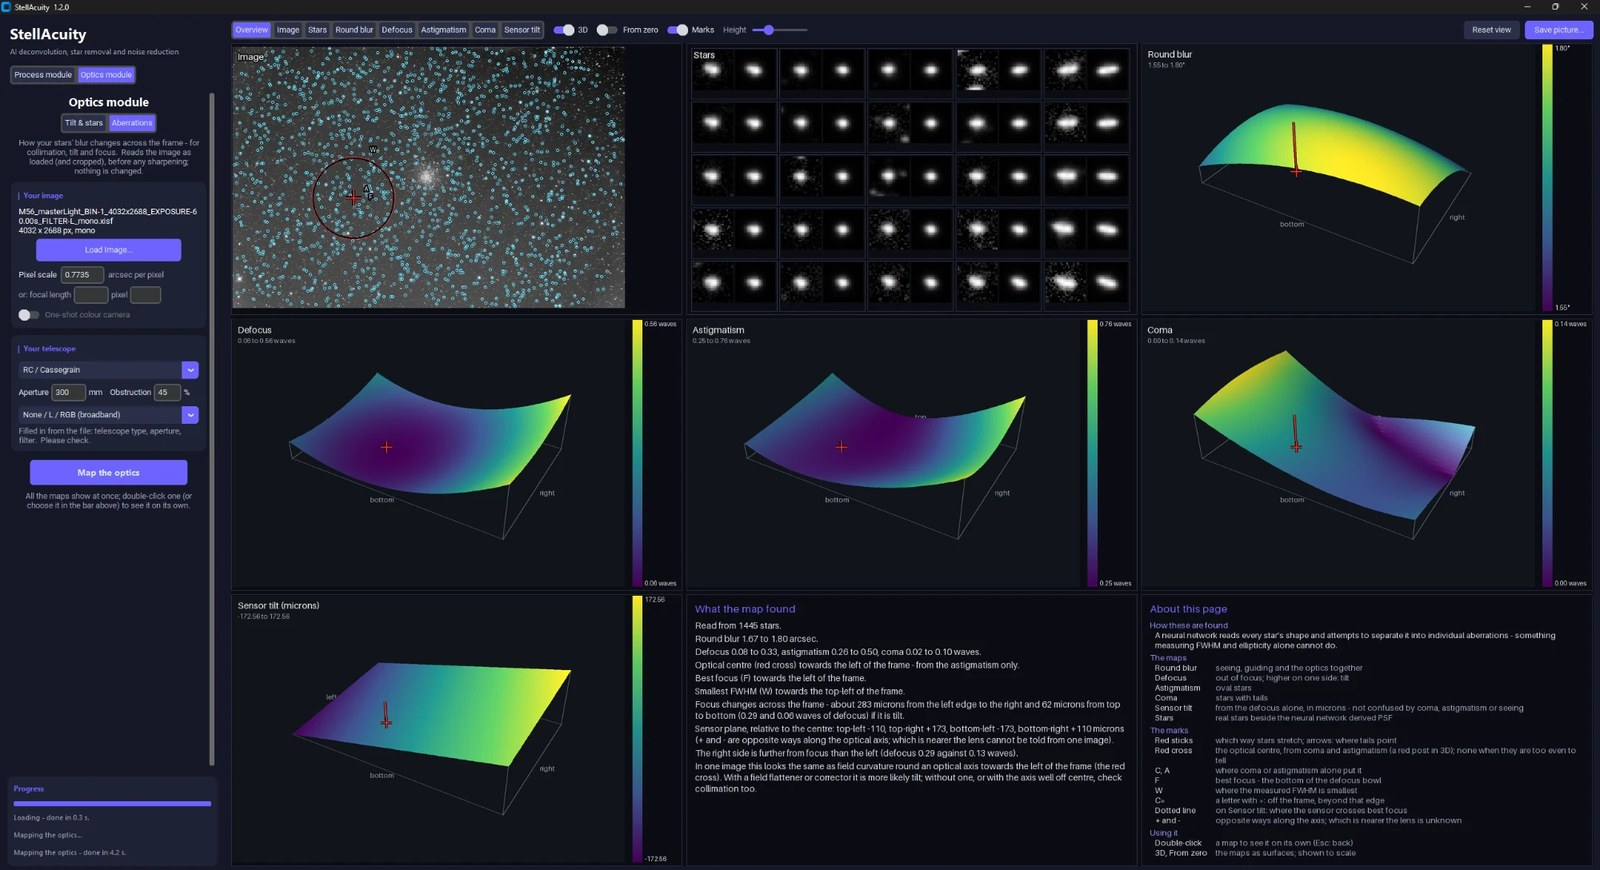
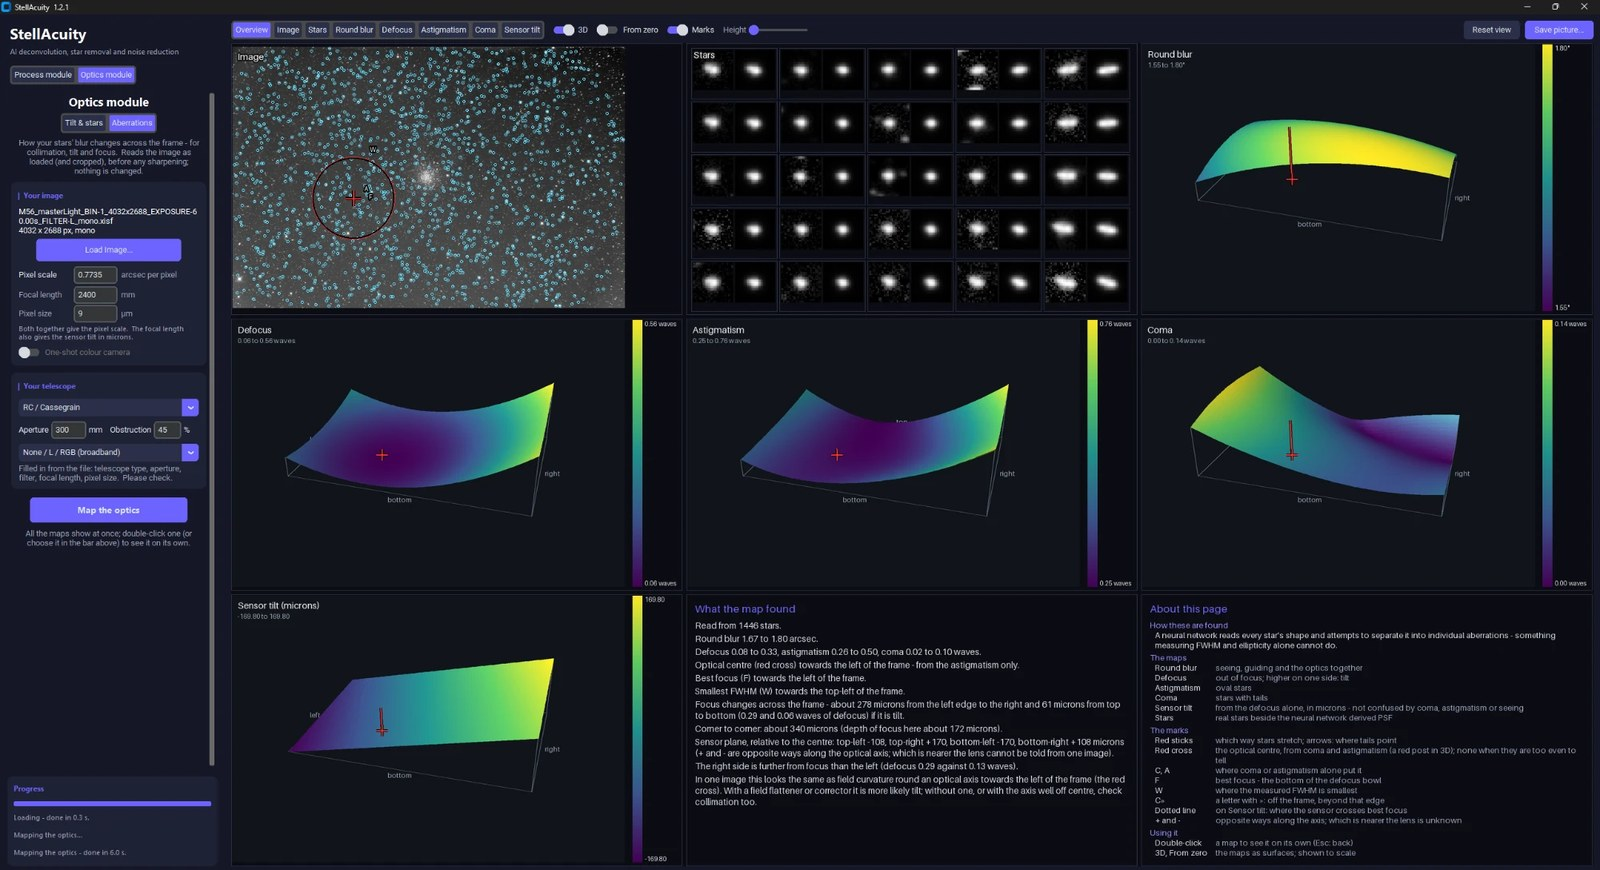
StellAcuity 1.2.1: download, version line, Optics pictures

diff --git a/index.html b/index.html
@@ -7,7 +7,7 @@
 <meta name="description" content="StellAcuity: AI sharpening (deconvolution), star removal and noise reduction for astronomical images. Windows, mono and colour, FITS / XISF / TIFF / JPEG / PNG. 7-day free trial (3 saved results).">
 <!--
   Published at https://stellacuity.com (29 Oct 2026):
-    (download: GitHub Release v1.2.0 - Stellacuity-1.2.0-Windows.zip)
+    (download: GitHub Release v1.2.1 - Stellacuity-1.2.1-Windows.zip)
   (checkout link filled in: Polar)
   (contact address filled in: support@stellacuity.com - forwarded to Gmail by Cloudflare Email Routing)
   (site served at stellacuity.com: the CNAME file)
@@ -166,8 +166,8 @@
       <figure><img class="hero-shot" src="images/program_process.jpg?v=1.1" fetchpriority="high" width="1600" height="1019"
                    alt="StellAcuity's Process mode: the six steps beside a colour nebula image">
         <figcaption><b>Process module</b> - sharpen, remove stars, reduce noise</figcaption></figure>
-      <figure><img class="hero-shot" src="images/program_optics.jpg?v=1.4" fetchpriority="high" width="1400" height="892"
-                   data-turning="images/program_optics_turning.webp?v=1.2"
+      <figure><img class="hero-shot" src="images/program_optics.jpg?v=1.5" fetchpriority="high" width="1400" height="892"
+                   data-turning="images/program_optics_turning.webp?v=1.3"
                    alt="StellAcuity's Optics module: every map of a star cluster's optics at once, in 3D, turning">
         <figcaption><b>Optics module</b> - your optics, mapped</figcaption></figure>
     </div>
@@ -181,7 +181,7 @@
       <a class="btn ghost" href="#buy">Buy - &pound;15</a>
     </div>
     <p class="small">Introductory price of &pound;15, including all future releases of deconvolution, star removal, noise reduction and the Optics module.</p>
-    <p class="small">Version 1.2.0 &middot; Windows 10 / 11 &middot; FITS, XISF, TIFF, JPEG and PNG &middot; mono and colour</p>
+    <p class="small">Version 1.2.1 &middot; Windows 10 / 11 &middot; FITS, XISF, TIFF, JPEG and PNG &middot; mono and colour</p>
   </div>
 </div>
 
@@ -321,10 +321,10 @@
       <b>Tilt &amp; stars</b>, the traditional check measured from the stars themselves, and <b>Aberrations</b>, where a neural
       network goes further.</p>
     <div class="hero-shots wide">
-      <figure><img class="shot" src="images/optics_tilt_stars.jpg?v=1.0" loading="lazy" width="1600" height="870"
+      <figure><img class="shot" src="images/optics_tilt_stars.jpg?v=1.1" loading="lazy" width="1600" height="870"
                    alt="The Optics module's Tilt and stars page: corner stars, corner FWHM, FWHM, ellipticity and tilt maps in 3D, and FWHM by distance">
         <figcaption><b>Tilt &amp; stars</b> - the traditional check, from the stars' FWHM and shape</figcaption></figure>
-      <figure><img class="shot" src="images/optics_aberrations.jpg?v=1.0" loading="lazy" width="1600" height="870"
+      <figure><img class="shot" src="images/optics_aberrations.jpg?v=1.1" loading="lazy" width="1600" height="870"
                    alt="The Optics module's Aberrations page: round blur, defocus, astigmatism, coma and sensor tilt as 3D surfaces">
         <figcaption><b>Aberrations</b> - a neural network separates the blur into its parts</figcaption></figure>
     </div>
@@ -422,7 +422,7 @@
       <h2 style="text-align:left">Download</h2>
       <p>Try StellAcuity free for 7 days on your own images - nothing to sign up for - and save up to 3 results. After
         that, a licence key unlocks it.</p>
-      <p><a class="btn primary" href="https://github.com/Stellacuity/stellacuity.github.io/releases/download/v1.2.0/Stellacuity-1.2.0-Windows.zip">Download StellAcuity 1.2.0 (Windows, 560 MB zip)</a></p>
+      <p><a class="btn primary" href="https://github.com/Stellacuity/stellacuity.github.io/releases/download/v1.2.1/Stellacuity-1.2.1-Windows.zip">Download StellAcuity 1.2.1 (Windows, 560 MB zip)</a></p>
       <p class="extract-note"><b>Important:</b> right-click the downloaded zip and choose <b>Extract All&hellip;</b> first, then run Stellacuity.exe from the extracted folder. Started from inside the zip, it cannot find its own files.</p>
       <p class="small" style="text-align:left">Windows 10 or 11 (64-bit). A graphics card makes it much faster; 8 GB of memory or more recommended.</p>
     </div>
